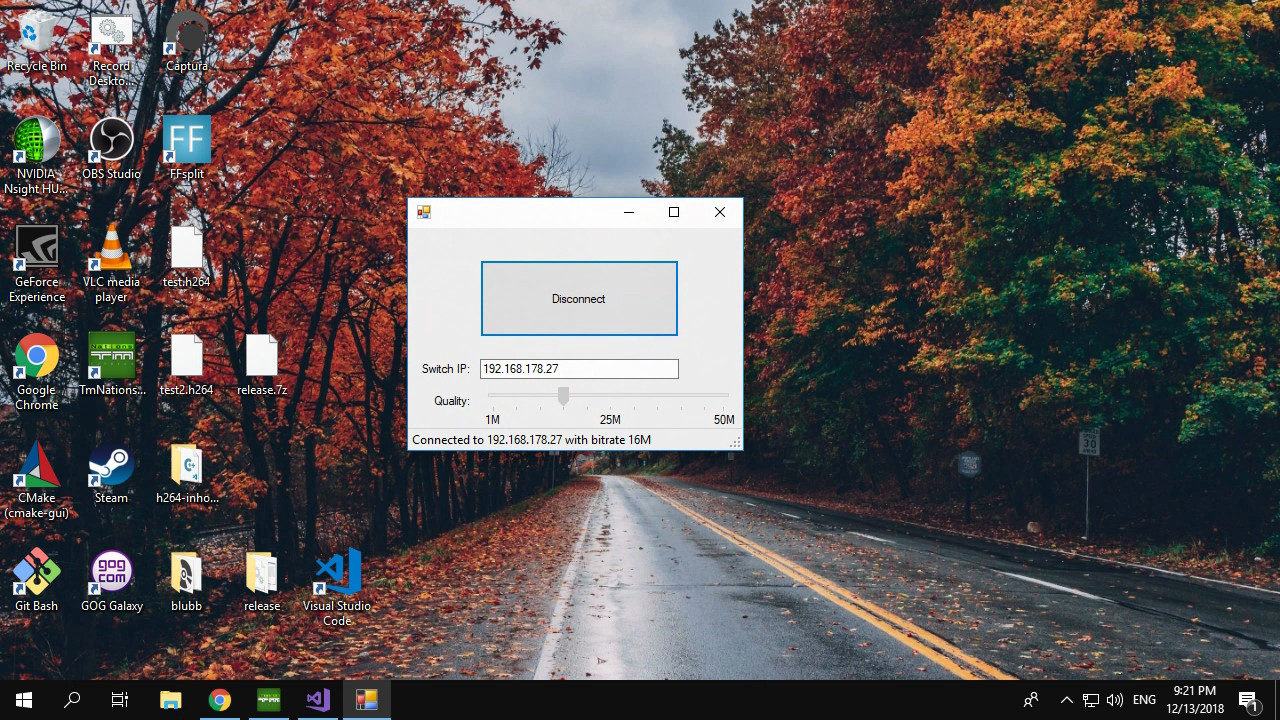
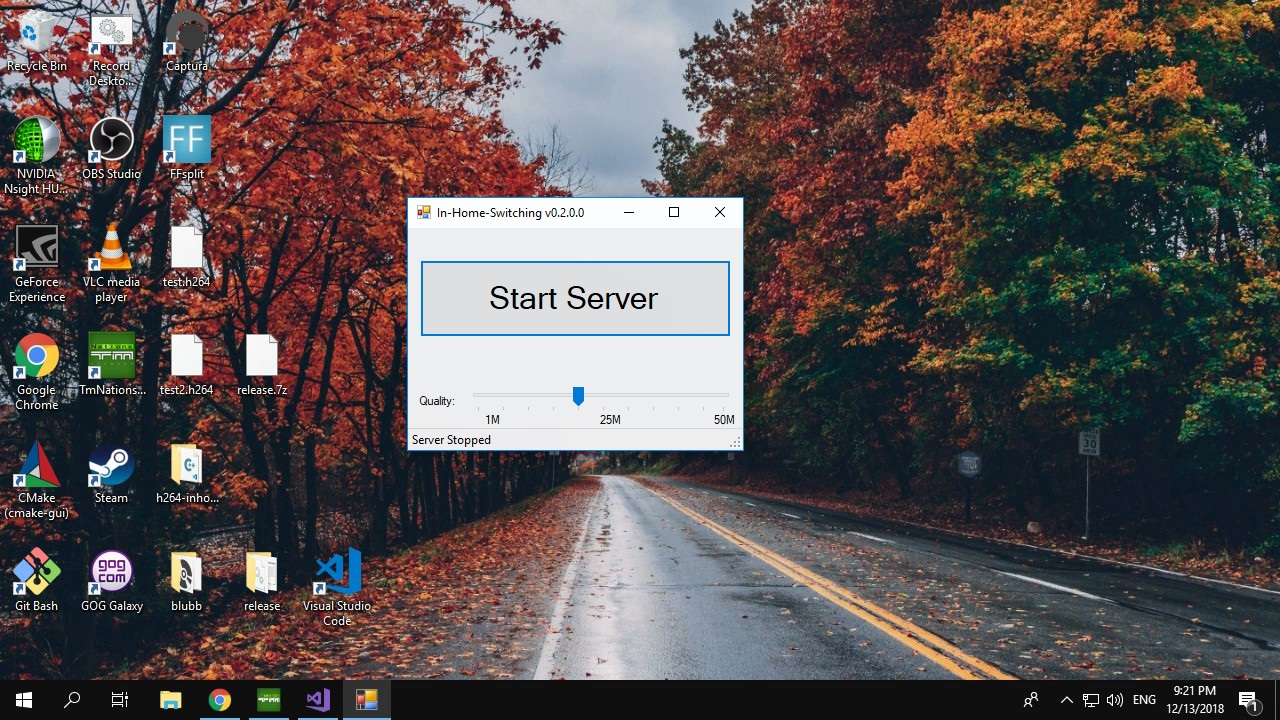
Updating the readme with new screenshots and build steps

diff --git a/Readme.md b/Readme.md
@@ -1,5 +1,7 @@
 # In-Home-Switching
-
+<p align="center"> 
+<img src="icon.jpg" alt="In-Home-Switching on Switch">
+</p>
 This is a homebrew that enables streaming of PC games to the Nintendo Switch.
 
 Have you ever been told by your parents that spending hours sitting in front of a PC was bad for you (like I was)? Well, now you can play your games portably anywhere in your house!
@@ -18,14 +20,24 @@ This project is fairly new, so please do not consider it totally stable. If you 
 ## How to Use
 If you do not want to build by yourself, have a look at the [releases page](https://github.com/jakibaki/In-Home-Switching/releases). There you can find an Archive with the App for the Switch as well as the corresponding PC companion app. For the PC App, just execute In-Home-Switching.exe in the Windows directory after unzipping. 
 
-On PC, [Scp drivers](https://github.com/mogzol/ScpDriverInterface/releases/download/1.1/ScpDriverInterface_v1.1.zip) must also be installed (just unzip and execute `Driver Installer/ScpDriverInstaller.exe`). Otherwise the program will crash silently.
+The latest release uses a desktop app as a server that can be left running waiting for a connection from your switch. This means you only need to start it once, and then you'll be able to re-connect to it from your switch as many times as you want (providing it doesn't crash). So go sit on your couch and stream some PC games!
 
-*Also please set your PC resolution to 1280x720p in Windows for getting **much** better performance of screen capturing while running the app.*
+On PC:
+  1. Install [Scp drivers](https://github.com/mogzol/ScpDriverInterface/releases/download/1.1/ScpDriverInterface_v1.1.zip) (just unzip and execute `Driver Installer/ScpDriverInstaller.exe`). Otherwise the program will crash silently.
+  1. Set your PC resolution to `1280x720` in Windows for getting **much** better performance of screen capturing while running the app.
+  1. Run the desktop app `In-Home-Switching.exe`
+  1. In the desktop app, Start the server by clicking `Start Server`
+  1. Find the `IP address` of your desktop (you'll need this on the switch)
 
-On the Switch, find out its IP address (in the Internet settings) and start the app with your Switch CFW. Then type in the Switch's IP address on the PC app and hit the `Connect` button.
+On the Switch:
+  1. Copy the homebrew app `In-Home-Switching.nro` to your switch
+  1. Launch the homebrew app
+  1. Hit the textbox to enter the `IP address` of your desktop running the server
+  1. Hit the `Connect` button.
 
 ## Screenshots from Nintendo Switch
 
+![Homebrew](screenshots/switch.jpg "Main screen on Switch")
 ![Track Mania](screenshots/TrackMania.jpg "Track Mania on Switch")
 ![Witcher 3](screenshots/witcher.jpg "Witcher 3 on Switch")
 ![PC companion app](screenshots/PCApp.jpg "PC app for streaming screen")
@@ -62,6 +74,7 @@ The following steps were done on Windows 10.
 1. Run the newly installed `MSYS2` cmd prompt
 1. From MSYS2 cmd, install patch command by running `pacman -S patch`
 1. From MSYS2 cmd, install pkg-config by running `pacman -S pkg-config`
+1. From MSYS2 cmd, install SDL2 packages by running `pacman -S switch-sdl2 switch-sdl2_gfx switch-sdl2_image switch-sdl2_mixer switch-sdl2_ttf switch-glad`
 1. Get the patched ffmpeg build by running  `git clone -b ffmpeg_networking https://github.com/jakibaki/pacman-packages.git`
 1. Navigate to the `pacman-packages/switch/ffmpeg` directory and compile the package by running: `makepkg -sL`
 1. Install the built package by running `pacman -U switch-ffmpeg-4.0.1-1-any.pkg.tar.xz`
